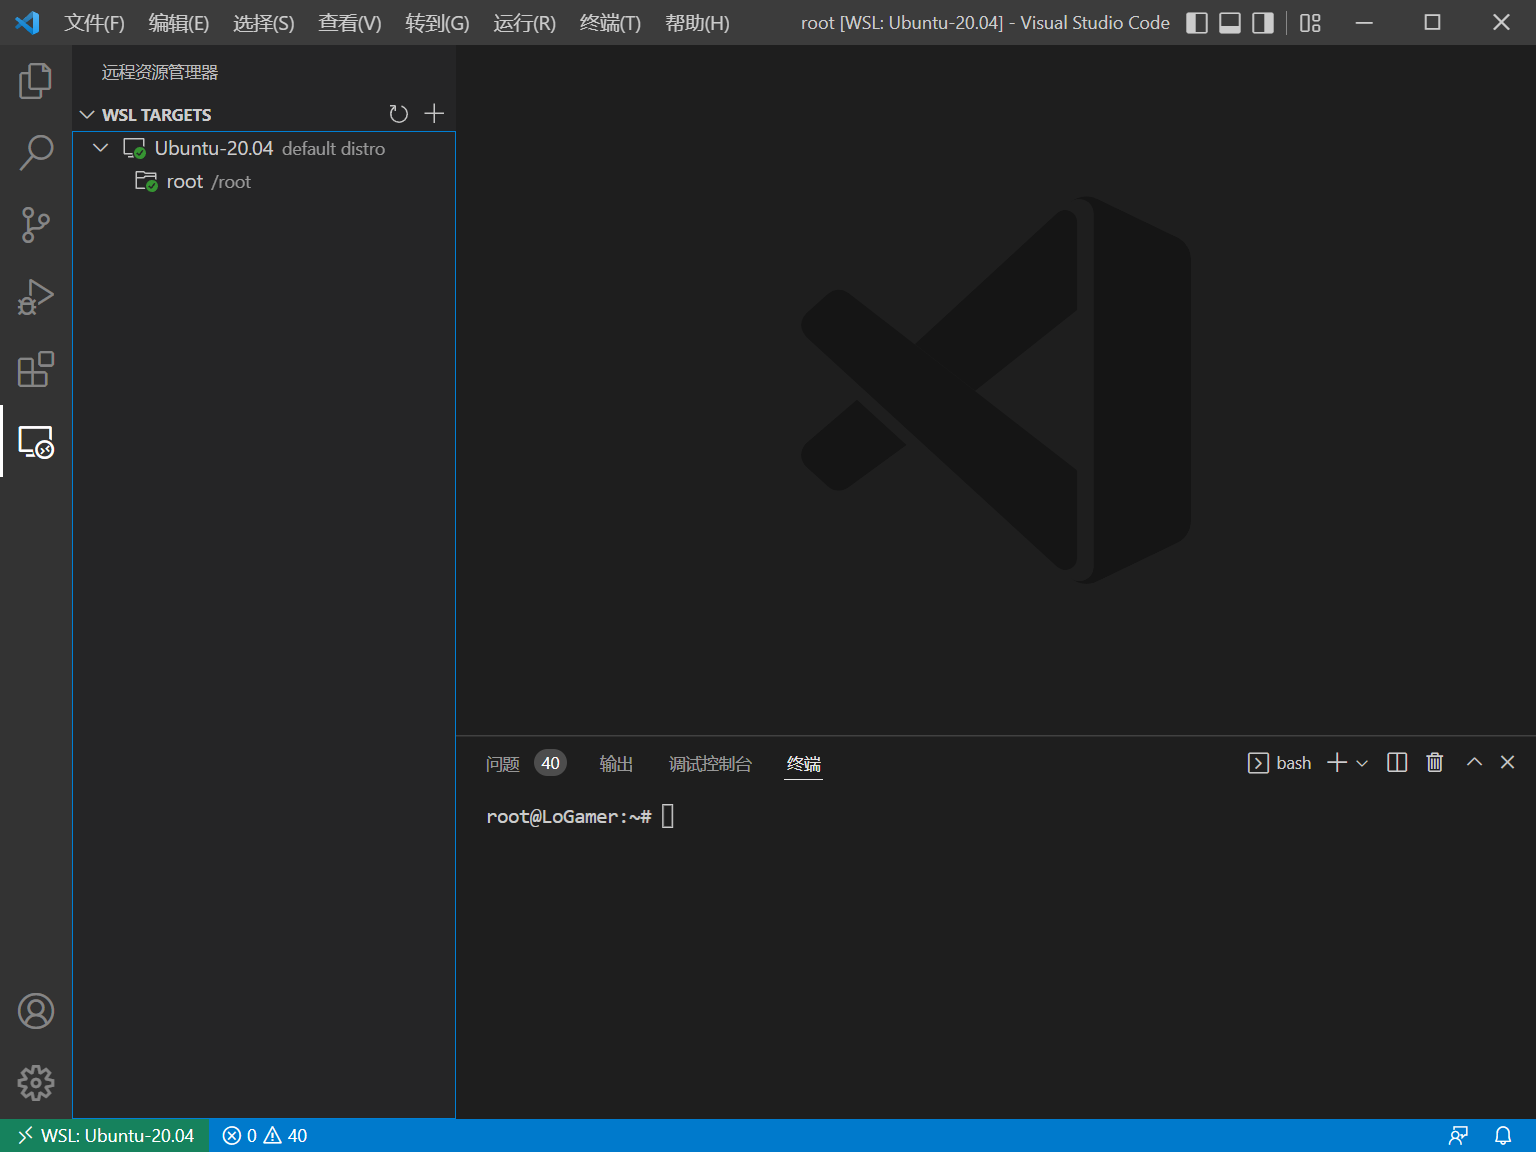
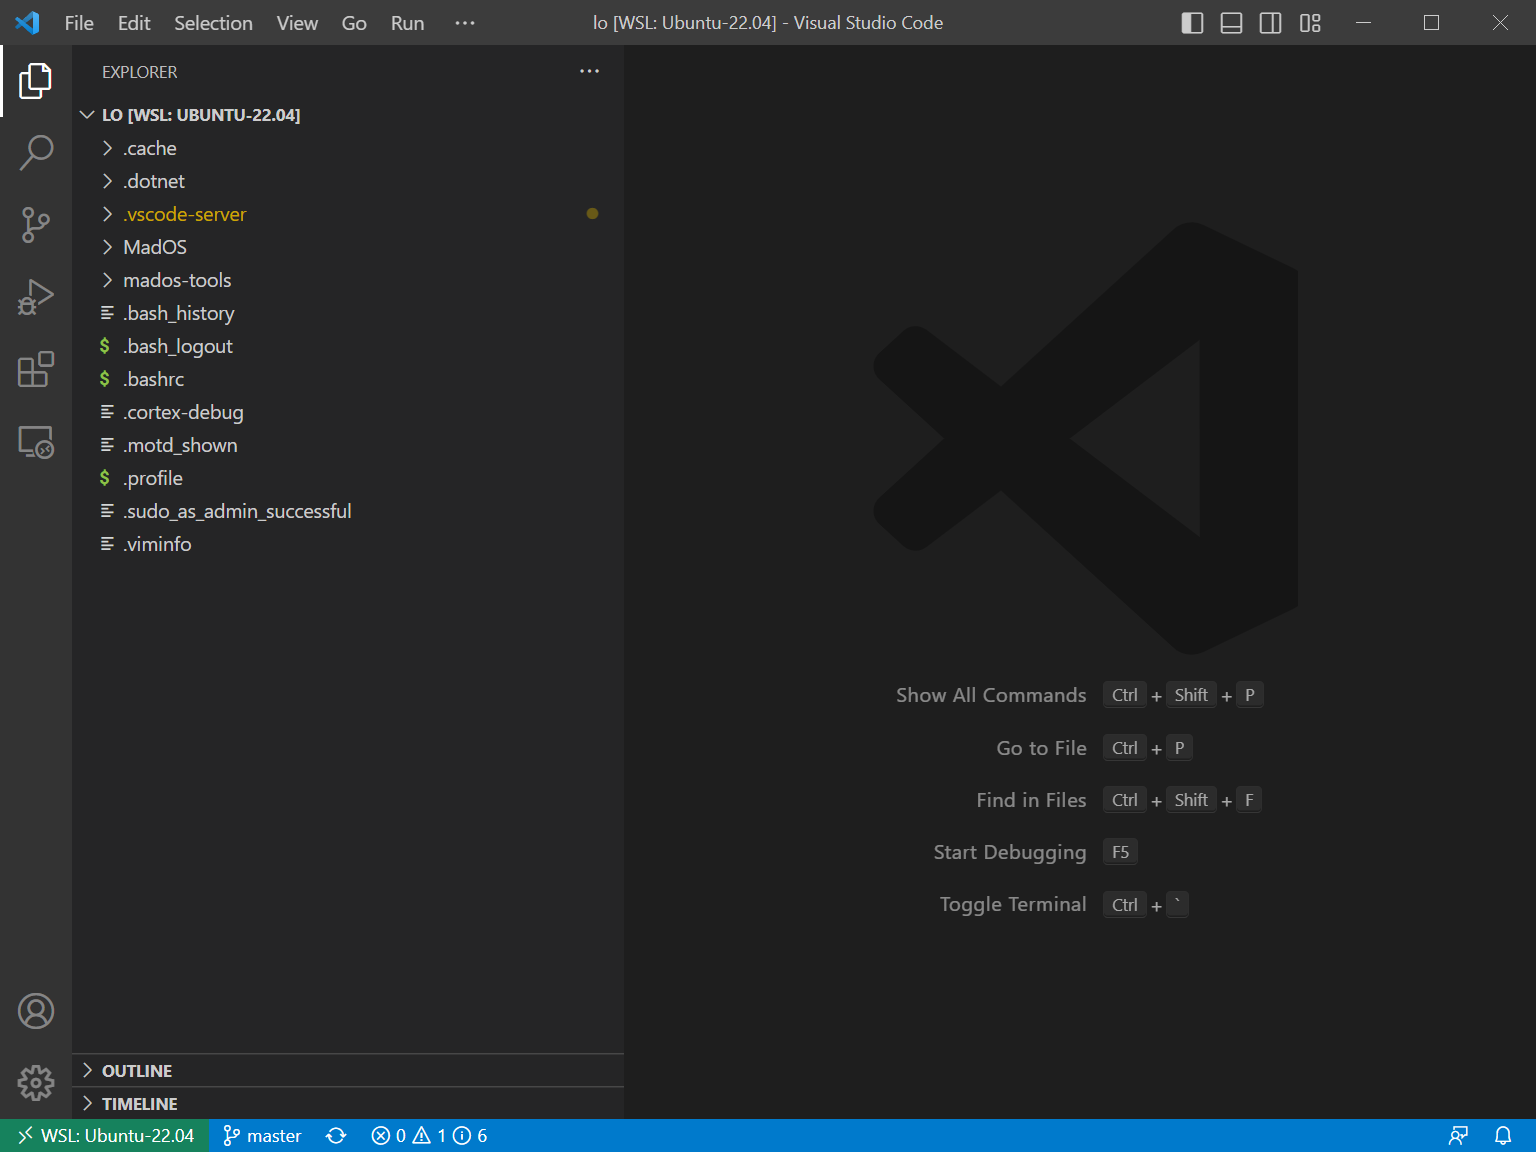
20230429.3

diff --git a/docs/Start/Preparation.md b/docs/Start/Preparation.md
@@ -102,7 +102,7 @@ wsl --import Ubuntu-22.04 D:\Games\wsl-ubuntu-22.04 mados-tools-13.1.0-WSL2.tar
 
 #### 首次启动 Ubuntu & VSCode
 ``` powershell
-wsl
+wsl -u lo
 code .
 ```
 ![WSL2_First](./images/Preparation/WSL2_First.png)
